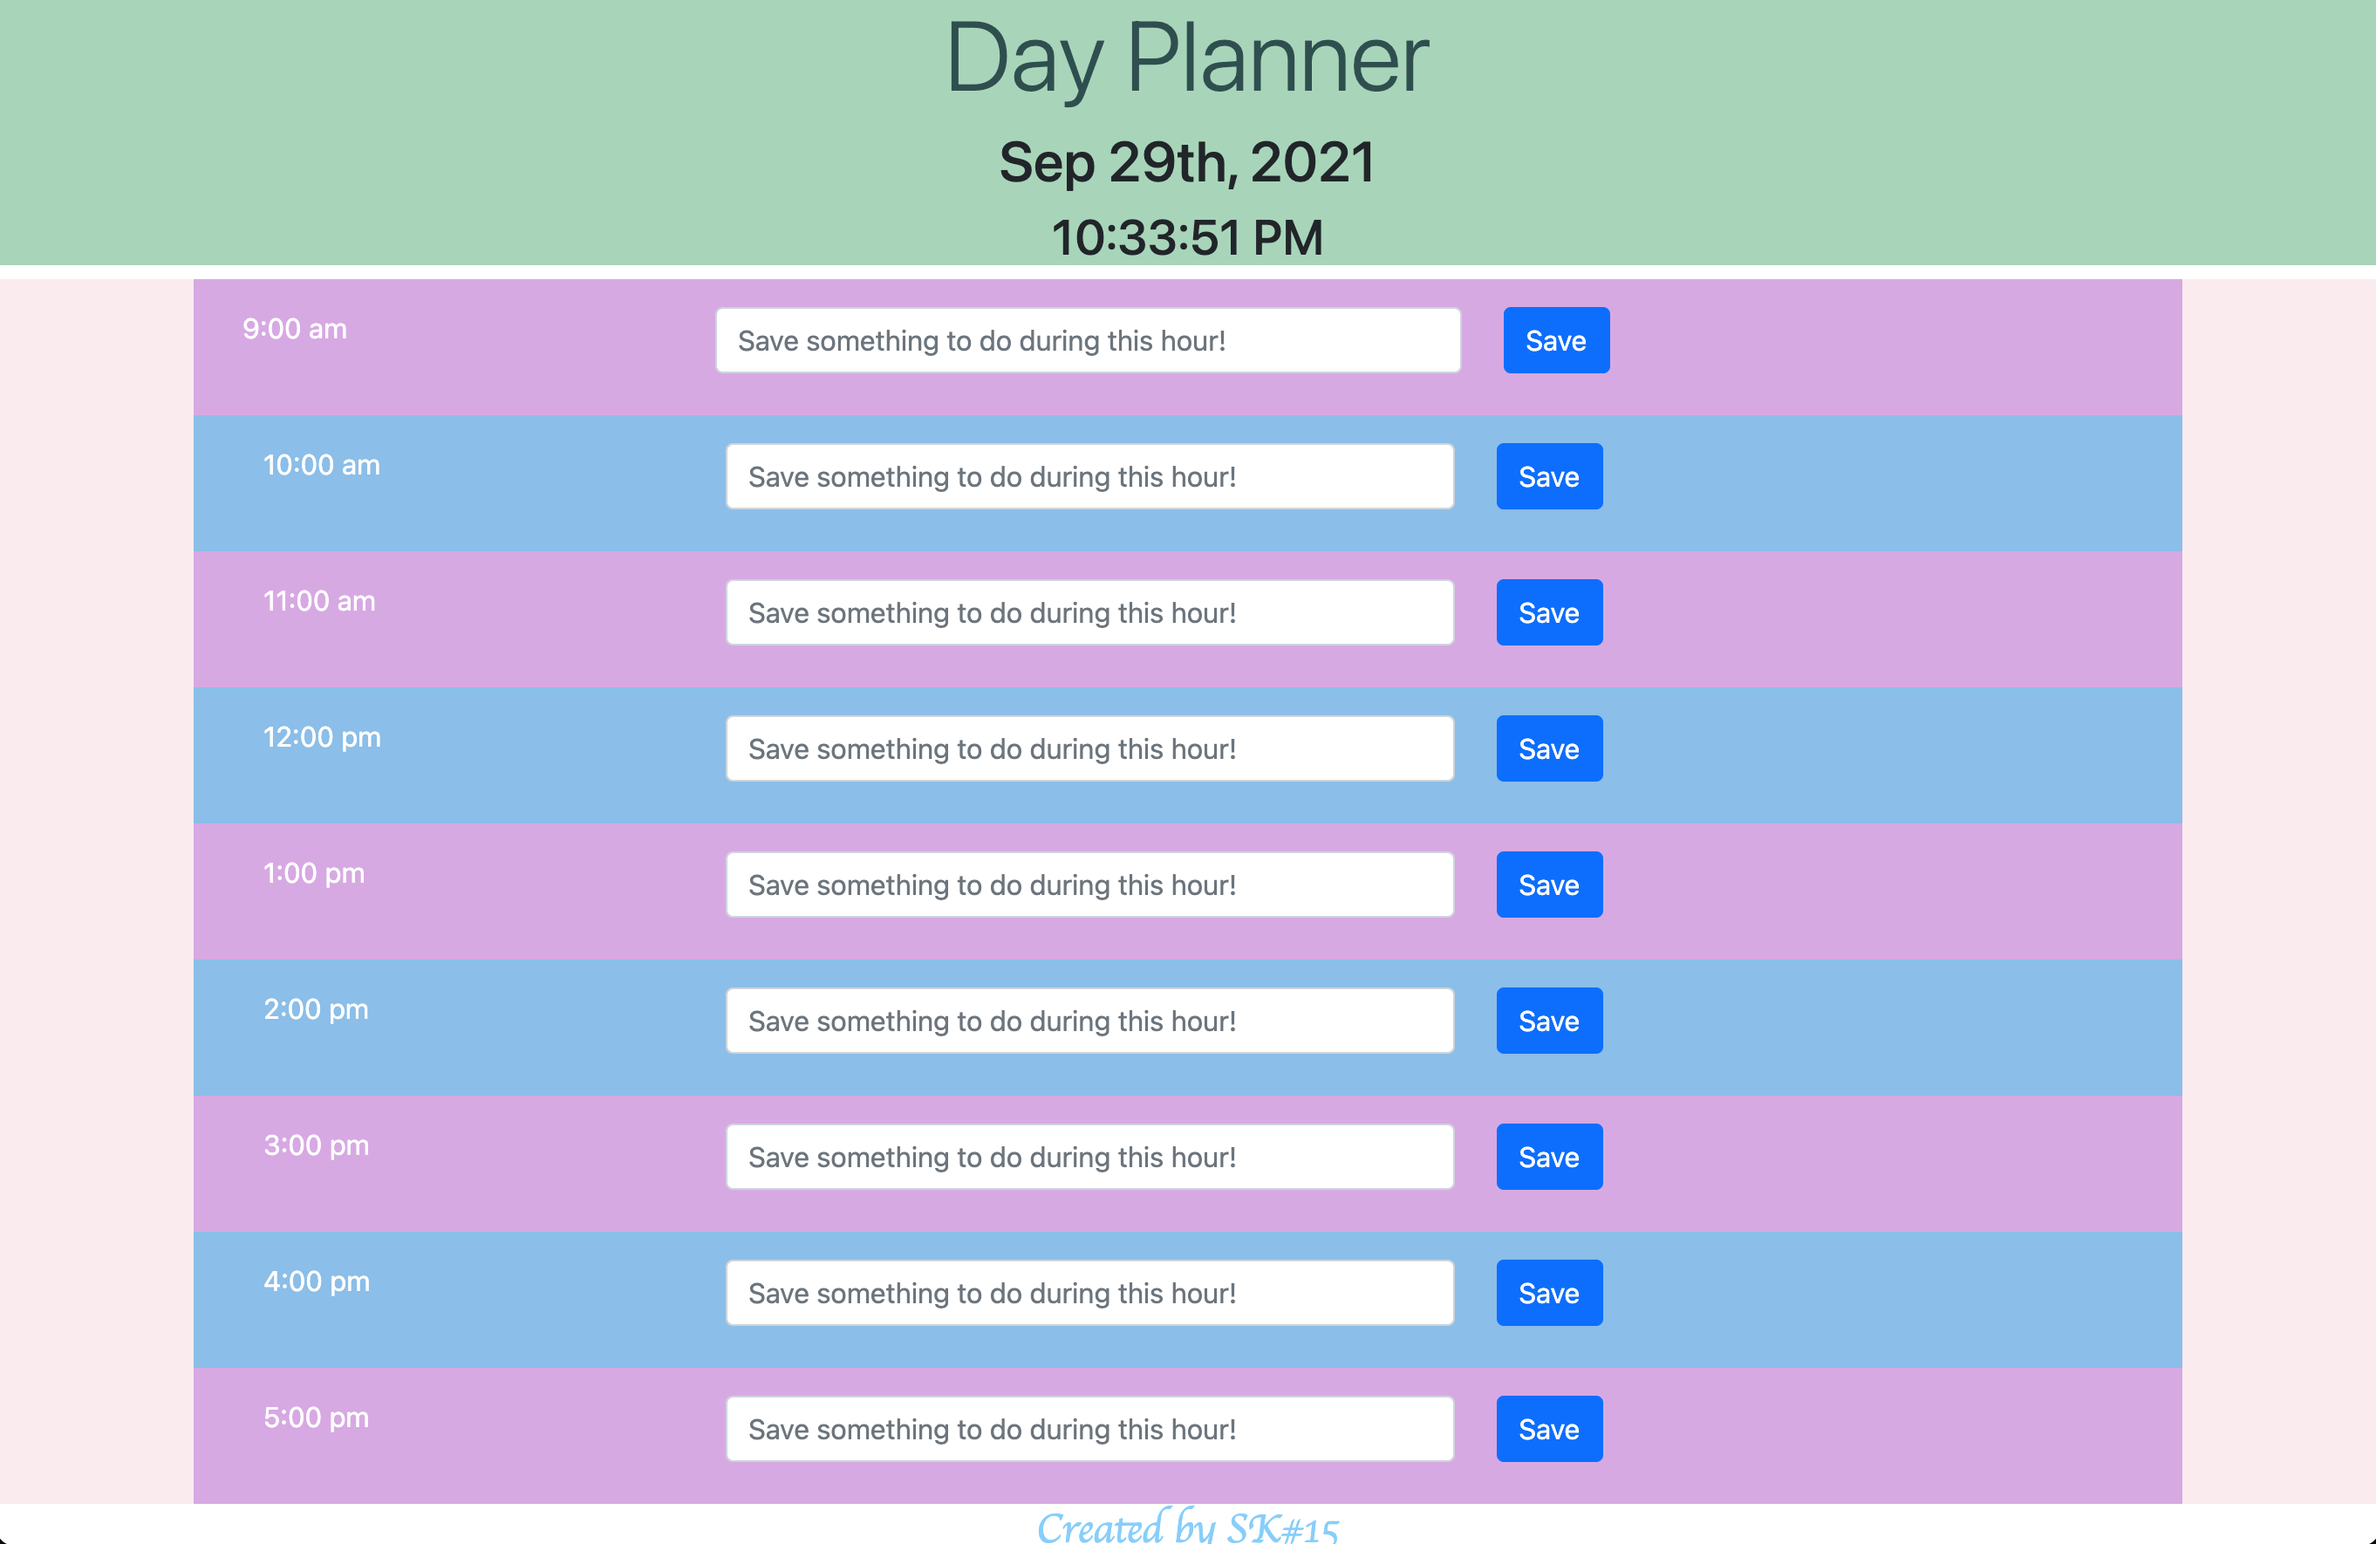
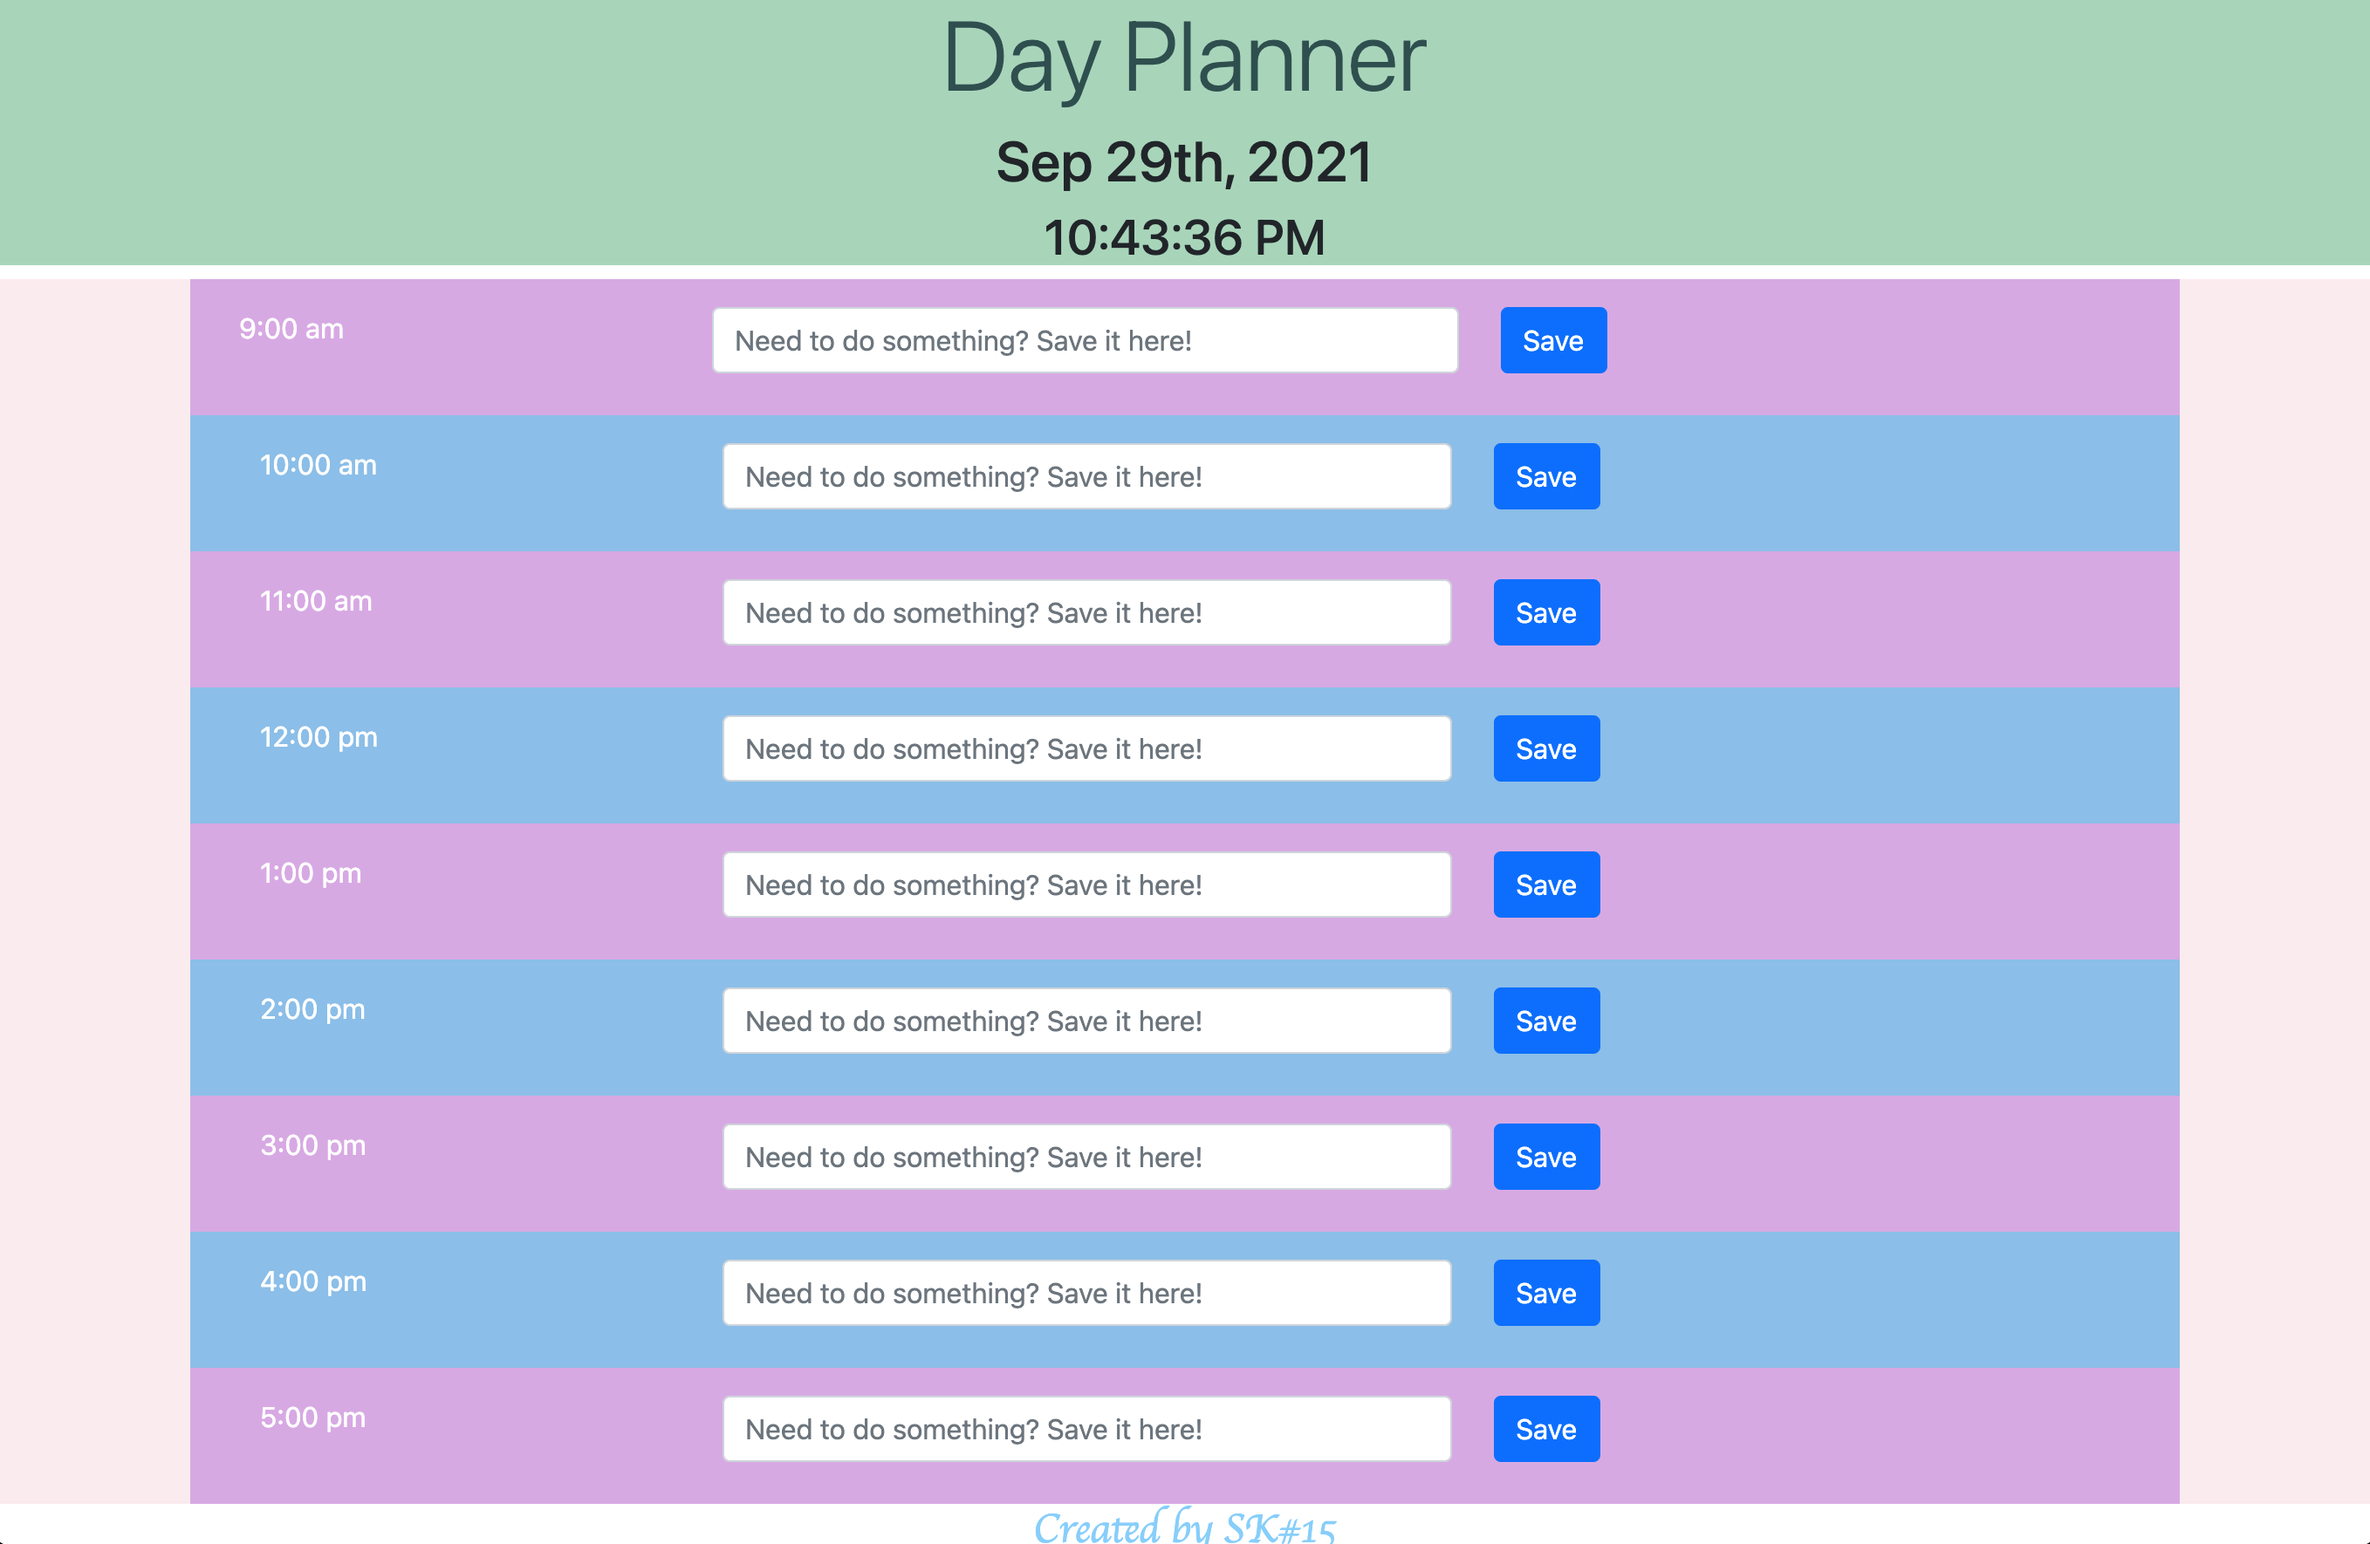
fixed placeholder in HTML and webpage on README

diff --git a/index.html b/index.html
@@ -40,7 +40,7 @@
                             9:00 am
                         </div>
                         <div class="col-5">
-                            <input type="text" class="form-control" placeholder="Save something to do during this hour!">
+                            <input type="text" class="form-control" placeholder="Need to do something? Save it here!">
                         </div>
                         <div class="col-3">
                             <button type="submit" class="btn btn-primary mb-2">Save</button>
@@ -56,7 +56,7 @@
                             10:00 am
                         </div>
                         <div class="col-5">
-                            <input type="text" class="form-control" placeholder="Save something to do during this hour!">
+                            <input type="text" class="form-control" placeholder="Need to do something? Save it here!">
                         </div>
                         <div class="col-3">
                             <button type="submit" class="btn btn-primary mb-2">Save</button>
@@ -72,7 +72,7 @@
                             11:00 am
                         </div>
                         <div class="col-5">
-                            <input type="text" class="form-control" placeholder="Save something to do during this hour!">
+                            <input type="text" class="form-control" placeholder="Need to do something? Save it here!">
                         </div>
                         <div class="col-3">
                             <button type="submit" class="btn btn-primary mb-2">Save</button>
@@ -88,7 +88,7 @@
                             12:00 pm
                         </div>
                         <div class="col-5">
-                            <input type="text" class="form-control" placeholder="Save something to do during this hour!">
+                            <input type="text" class="form-control" placeholder="Need to do something? Save it here!">
                         </div>
                         <div class="col-3">
                             <button type="submit" class="btn btn-primary mb-2">Save</button>
@@ -104,7 +104,7 @@
                             1:00 pm
                         </div>
                         <div class="col-5">
-                            <input type="text" class="form-control" placeholder="Save something to do during this hour!">
+                            <input type="text" class="form-control" placeholder="Need to do something? Save it here!">
                         </div>
                         <div class="col-3">
                             <button type="submit" class="btn btn-primary mb-2">Save</button>
@@ -120,7 +120,7 @@
                             2:00 pm
                         </div>
                         <div class="col-5">
-                            <input type="text" class="form-control" placeholder="Save something to do during this hour!">
+                            <input type="text" class="form-control" placeholder="Need to do something? Save it here!">
                         </div>
                         <div class="col-3">
                             <button type="submit" class="btn btn-primary mb-2">Save</button>
@@ -136,7 +136,7 @@
                             3:00 pm
                         </div>
                         <div class="col-5">
-                            <input type="text" class="form-control" placeholder="Save something to do during this hour!">
+                            <input type="text" class="form-control" placeholder="Need to do something? Save it here!">
                         </div>
                         <div class="col-3">
                             <button type="submit" class="btn btn-primary mb-2">Save</button>
@@ -152,7 +152,7 @@
                             4:00 pm
                         </div>
                         <div class="col-5">
-                            <input type="text" class="form-control" placeholder="Save something to do during this hour!">
+                            <input type="text" class="form-control" placeholder="Need to do something? Save it here!">
                         </div>
                         <div class="col-3">
                             <button type="submit" class="btn btn-primary mb-2">Save</button>
@@ -168,7 +168,7 @@
                             5:00 pm
                         </div>
                         <div class="col-5">
-                            <input type="text" class="form-control" placeholder="Save something to do during this hour!">
+                            <input type="text" class="form-control" placeholder="Need to do something? Save it here!">
                         </div>
                         <div class="col-3">
                             <button type="submit" class="btn btn-primary mb-2">Save</button>
